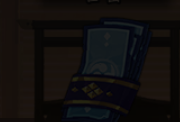
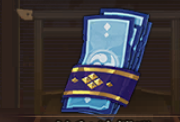
fix(RichMan): Re-crop blue amulet template and accept OCR-swallowed remain text
The blue amulet template cropped from a popup frame carries the dimmed overlay background and scored 0.59 on the normal page, so the medal store skipped it. Re-crop from a normal bright frame. Also OCR often swallows the char in the remain count, so the regex now accepts the shortened form instead of misreading 10 as 0.

diff --git a/tasks/RichMan/mall/special.py b/tasks/RichMan/mall/special.py
@@ -28,6 +28,11 @@ class Special(Buy, MallNavbar):
         totem_bought, medium_bought, low_bought = False, False, False
         while 1:
             self.screenshot()
+            # 奖励弹窗残留兜底: 购买后奖励弹窗渲染延迟时上层已判定"弹窗关闭"退出,
+            # 残留弹窗会遮住页面标志导致下面的滑动无限空转 (2026-10-12 杂货铺御灵实测)
+            if self.ui_reward_appear_click():
+                time.sleep(0.5)
+                continue
             if not totem_bought and self.appear(self.I_SP_BUY_TOTEM):
                 self._special_totom(con.totem_pass)
                 totem_bought = True
@@ -164,7 +169,8 @@ class Special(Buy, MallNavbar):
                   .replace('教', '数').replace('刺', '剩')
                   .replace('头', '买'))
         # 冒号可能被漏识别, 如"剩余购买次数2", 所以冒号设为可选
-        matched = re.search(r'(?:剩余)?(?:购买次数|本周剩余数量)：?(\d+)', result)
+        # "次数"常被OCR吞成"数"(2026-10-12 实测"剩余购买数：10"导致挑战券被误判0次跳过)
+        matched = re.search(r'(?:剩余)?(?:购买次数|购买数|本周剩余数量)：?(\d+)', result)
         result = int(matched.group(1)) if matched else 0
         logger.info(f'Remain [{result}]')
         return result
